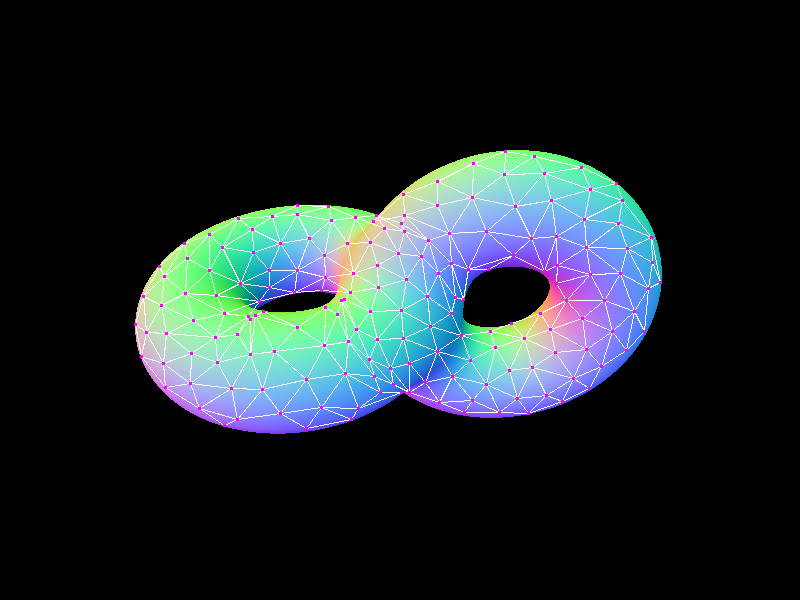
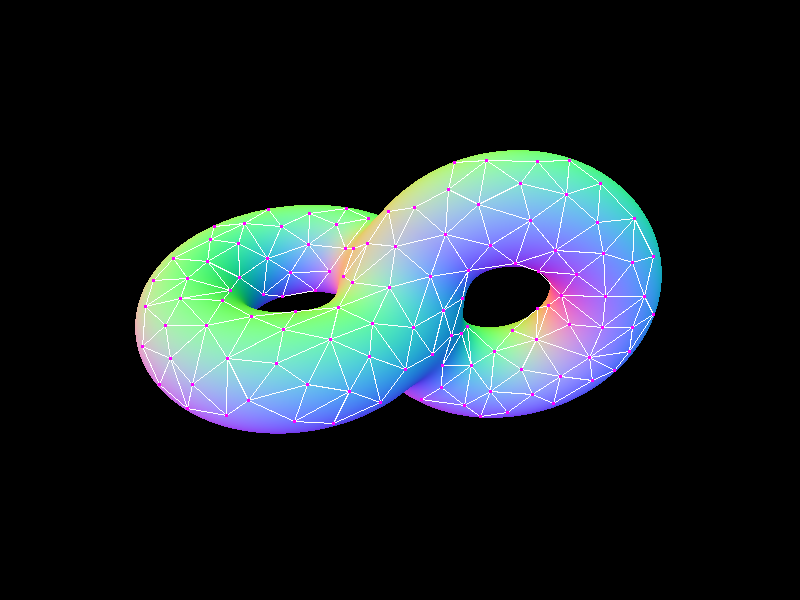
stippling

Changed region(s): [[0.1562, 0.24, 0.8438, 0.72]]

diff --git a/stippling.py b/stippling.py
@@ -1,0 +1,70 @@
+from dataclasses import dataclass
+from math import dist
+from random import uniform
+import bisect
+
+from sdf import SDF
+from geo import SurfacePoint, project_to_surface
+from triangulate import Triangle
+from point import vec, add, mul, add_mul
+
+
+@dataclass
+class Surface:
+    sdf: SDF
+    vertices: list[SurfacePoint]
+    triangles: list[Triangle]
+    cumulative_areas: list[float]
+
+    def get_random_point(self) -> SurfacePoint:
+        total_area = self.cumulative_areas[-1]
+        r = uniform(0, total_area)
+        triangle = self.triangles[bisect.bisect_right(self.cumulative_areas, r)]
+        a = self.vertices[triangle.a_idx].point
+        b = self.vertices[triangle.b_idx].point
+        c = self.vertices[triangle.c_idx].point
+        x = uniform(0, 1)
+        y = uniform(0, 1)
+        u = min(x, y)
+        v = max(x, y)
+        p = add(mul(a, u), add(mul(b, v - u), mul(c, 1 - v)))
+        return project_to_surface(self.sdf, p=p, direction=(1, 0, 0))
+
+
+def make_surface(
+    sdf: SDF, vertices: list[SurfacePoint], triangles: list[Triangle]
+) -> Surface:
+    cumulative_areas = []
+    total_area = 0.0
+    for triangle in triangles:
+        total_area += triangle.area
+        cumulative_areas.append(total_area)
+    return Surface(sdf, vertices, triangles, cumulative_areas)
+
+
+def stipple(surface: Surface, num_points: int, num_iters: int) -> list[SurfacePoint]:
+    points = [surface.get_random_point() for _ in range(num_points)]
+    num_moved = [0 for _ in range(num_points)]
+    for iter in range(num_iters):
+        if iter % num_points == 0:
+            print(
+                f"Stippling iteration {iter}/{num_iters}, min moves {min(num_moved)}, max moves {max(num_moved)}"
+            )
+        target = surface.get_random_point()
+        min_dist = float("inf")
+        min_idx = None
+        for i, point in enumerate(points):
+            d = dist(target.point, point.point)
+            if d < min_dist:
+                min_dist = d
+                min_idx = i
+        num_moved[min_idx] += 1
+        new_point = add_mul(
+            points[min_idx].point,
+            vec(points[min_idx].point, target.point),
+            1 / (1 + num_moved[min_idx]),
+        )
+        points[min_idx] = project_to_surface(
+            surface.sdf, p=new_point, direction=(1, 0, 0)
+        )
+    return points

diff --git a/render.py b/render.py
@@ -6,6 +6,7 @@ from sdf import SDF, sphere, torus, shifted, rotated, smooth_union
 from point import normalize, cross, add, mul, vec, dot
 from cloud import create_cloud
 from triangulate import Triangle, triangulate
+from stippling import make_surface, stipple
 
 from PIL import Image, ImageDraw
 
@@ -25,7 +26,7 @@ def render(
     marks: list[Point],
     triangles: list[Triangle],
     render_surface: bool = True,
-    show_surface: bool = True
+    show_surface: bool = True,
 ) -> Image:
     right = normalize(cross(direction, up))
     up = normalize(cross(right, direction))
@@ -61,10 +62,12 @@ def render(
 
     def on_screen(p: SurfacePoint) -> tuple[int, int, bool]:
         v = normalize(vec(origin, p.point))
+        ray = Ray(origin, v)
+        hit = ray.propagate(sdf, eps=eps, max_distance=max_distance)
         a = 1 / dot(v, direction)
         x = int(dot(v, right) * focal_length * a)
         y = int(dot(v, up) * focal_length * a)
-        return x, y, dot(v, p.normal) < 0
+        return x, y, dist(p.point, hit.point) > 10 * eps if hit.hit else True
 
     triangle_vertices = set()
     for tri in triangles:
@@ -187,3 +190,34 @@ if __name__ == "__main__":
         show_surface=True,
     )
     image.save("mesh.png")
+
+    surface = make_surface(surface_sdf, cloud, triangles)
+    stippled_points = stipple(surface, num_points=100, num_iters=100000)
+
+    for i in range(len(stippled_points)):
+        print(f"Connecting point {i + 1}/{len(stippled_points)}")
+        best_path = []
+        nearest_dist = 1.5
+        for j in range(len(stippled_points)):
+            print(j)
+            if i == j:
+                continue
+            if dist(stippled_points[i].point, stippled_points[j].point) > nearest_dist:
+                continue
+            pts, dst = connect(
+                surface_sdf, stippled_points[i].point, stippled_points[j].point
+            )
+            if dst < nearest_dist:
+                nearest_dist = dst
+                best_path = pts
+        path += best_path
+
+    image = render(
+        **render_params,
+        points=path,
+        marks=stippled_points,
+        triangles=[],
+        render_surface=False,
+        show_surface=True,
+    )
+    image.save("stippled.png")

diff --git a/geo.py b/geo.py
@@ -55,7 +55,7 @@ def closest_approach(
 
 def connect(
     sdf: SDF, p: Point, q: Point, *, step_size: float = 1e-3, eps: float = 1e-4
-) -> list[SurfacePoint]:
+) -> tuple[list[SurfacePoint], float]:
     start = project_to_surface(sdf, p=p, direction=normalize(vec(p, q)), eps=eps)
     end = project_to_surface(sdf, p=q, direction=normalize(vec(q, p)), eps=eps)
     approach = closest_approach(start, end, step_size=step_size)
@@ -85,7 +85,7 @@ def connect(
         -initial_d_ang if left_approach.error < right_approach.error else initial_d_ang
     )
     while abs(d_ang) > eps:
-        print(f"{ang=}, {d_ang=}, {approach=}")
+        # print(f"{ang=}, {d_ang=}, {approach=}")
         curr_ang = ang + d_ang
         curr_approach = closest_approach(
             SurfacePoint(
@@ -97,7 +97,7 @@ def connect(
             end,
             step_size=step_size,
         )
-        print(f"{curr_ang=}, {curr_approach=}")
+        # print(f"{curr_ang=}, {curr_approach=}")
         if curr_approach.error < approach.error:
             approach = curr_approach
             ang = curr_ang
@@ -126,4 +126,4 @@ def connect(
         final_start = final_start.move(step_size)
         path.append(final_start)
         distance_traveled += step_size
-    return path
+    return (path, distance_traveled)

diff --git a/ray.py b/ray.py
@@ -7,6 +7,7 @@ from dataclasses import dataclass
 @dataclass
 class Hit:
     hit: bool
+    point: Point | None = None
     normal: Point | None = None
 
 
@@ -17,7 +18,7 @@ class Ray:
 
     def propagate(self, sdf: SDF, eps: float = 1e-6, max_distance: float = 1e4) -> Hit:
         if sdf(self.origin) < 0:
-            return Hit(True, normal(self.origin, sdf, eps))
+            return Hit(True, self.origin, normal(self.origin, sdf, eps))
 
         distance_traveled = 0.0
         num_steps = 0
@@ -28,7 +29,7 @@ class Ray:
             #     f"Step {num_steps}: sdf value {step}, {self.origin=}, {distance_traveled=}"
             # )
             if step < eps:
-                return Hit(True, normal(self.origin, sdf, eps))
+                return Hit(True, self.origin, normal(self.origin, sdf, eps))
             while True:
                 end = add_mul(self.origin, self.direction, step)
                 if sdf(end) >= 0:
